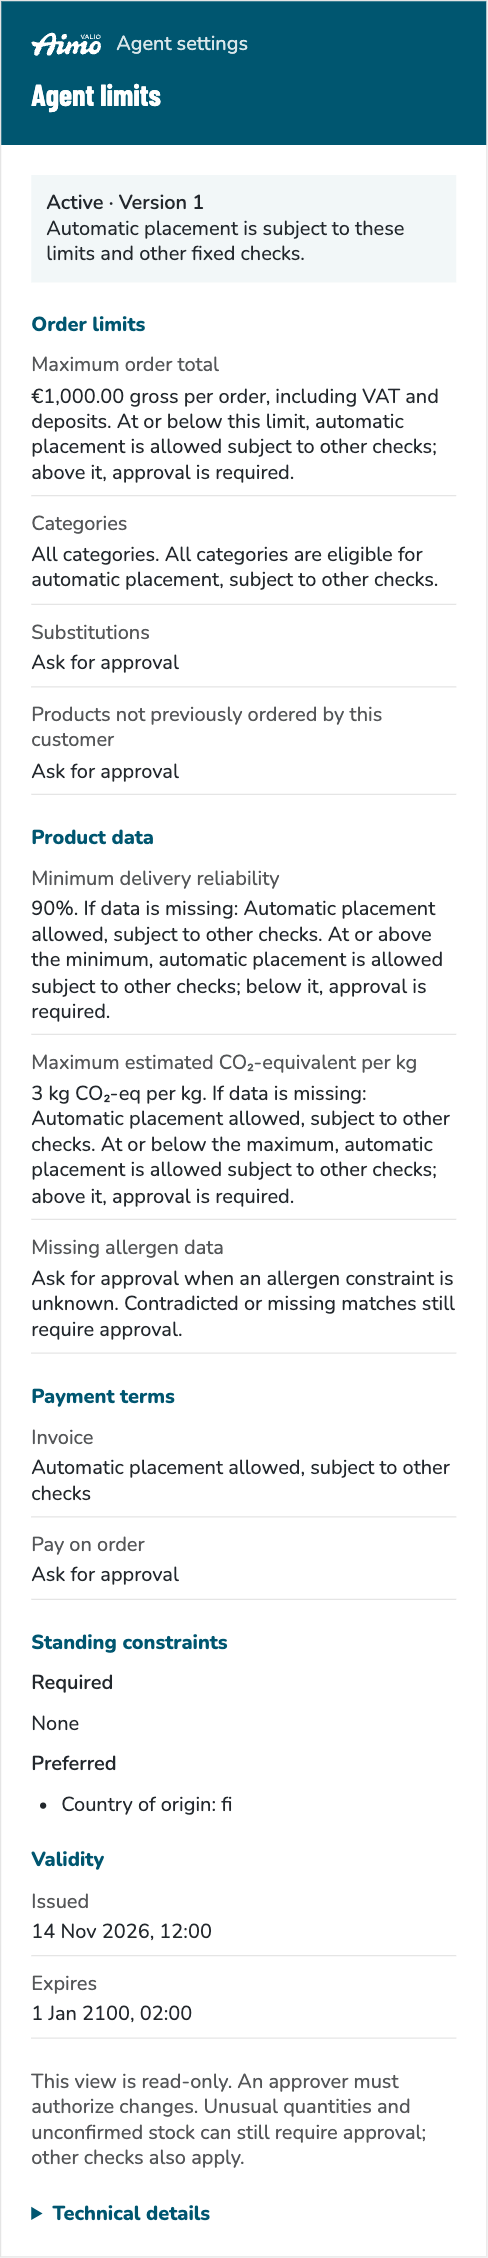
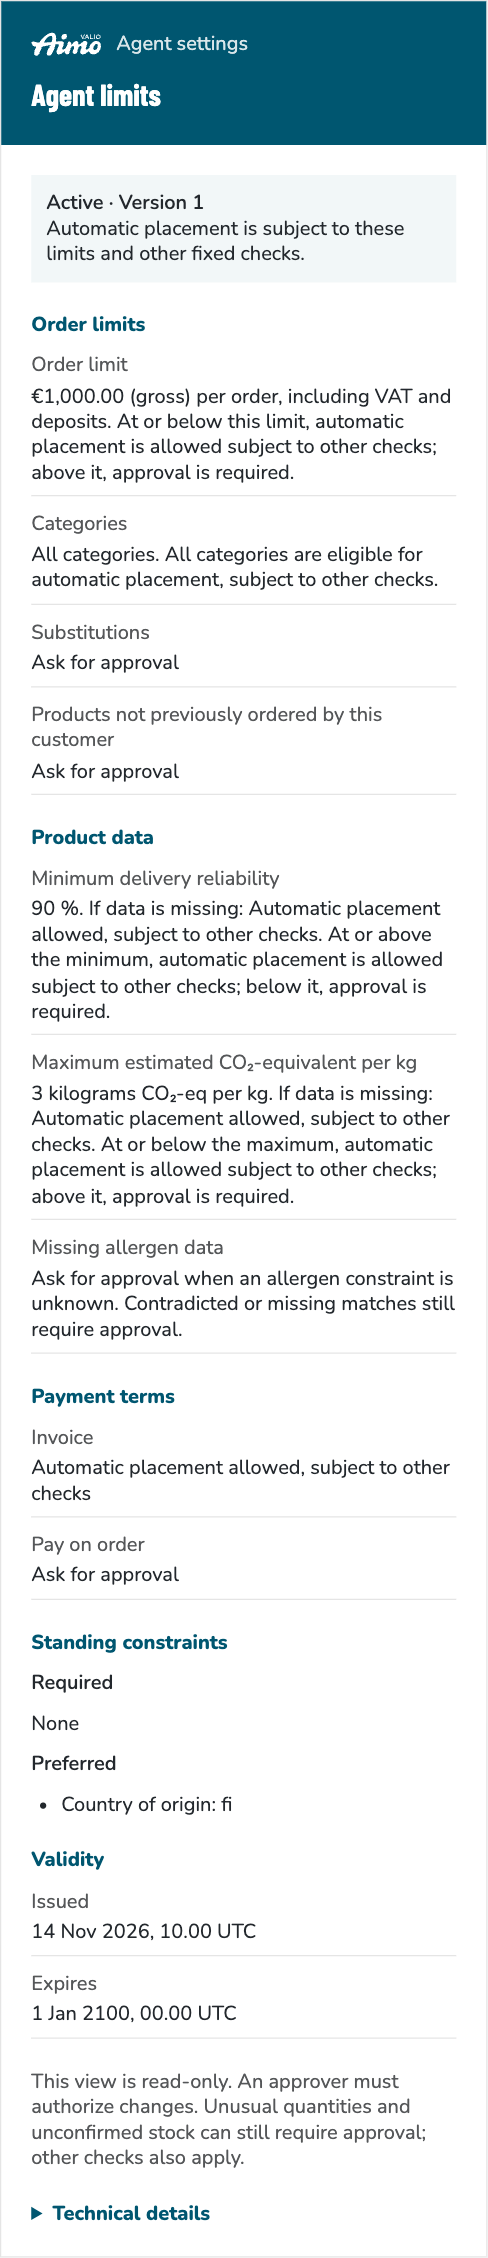
refactor(views): adopt shared mandate formats after #135 (#31)

diff --git a/contexts/views/src/views/mandate-settings/mandate-settings.ts b/contexts/views/src/views/mandate-settings/mandate-settings.ts
@@ -1,3 +1,4 @@
+import { formatMoney, formatQuantity, formatTimestamp, ORDER_TERMS } from "@app/ui/format";
 import { css, html } from "lit";
 import { unsafeSVG } from "lit/directives/unsafe-svg.js";
 import { plainPageUrl, type ViewData, type ViewEntryOf, viewEntry } from "../../shared/bridge.ts";
@@ -14,12 +15,6 @@ import {
   thresholdText,
 } from "./presentation.ts";
 
-const date = (seconds: number) =>
-  new Intl.DateTimeFormat("en-GB", { dateStyle: "medium", timeStyle: "short" }).format(
-    new Date(seconds * 1000),
-  );
-const number = (value: number) =>
-  new Intl.NumberFormat("en-GB", { maximumFractionDigits: 4 }).format(value);
 const row = (label: string, value: string) =>
   html`<div class="row">
     <dt>${label}</dt>
@@ -225,7 +220,7 @@ class MandateSettings extends ViewElement<ViewEntryOf<"mandate-settings">> {
         <section>
           <h3>Order limits</h3>
           <dl>
-            ${row("Maximum order total", `${new Intl.NumberFormat("en-GB", { style: "currency", currency: limits.maxOrderTotal.currency }).format(limits.maxOrderTotal.value)} gross per order, including VAT and deposits. At or below this limit, automatic placement is allowed subject to other checks; above it, approval is required.`)}
+            ${row(ORDER_TERMS.limit, `${formatMoney(limits.maxOrderTotal.value, limits.maxOrderTotal.currency, limits.maxOrderTotal.basis)} per order, including VAT and deposits. At or below this limit, automatic placement is allowed subject to other checks; above it, approval is required.`)}
             ${row("Categories", `${categoriesText(limits.categories)}. ${limits.categories === null ? "All categories are eligible for automatic placement, subject to other checks." : limits.categories.length === 0 ? "No categories are eligible for automatic placement; approval is required." : "Listed categories are eligible for automatic placement, subject to other checks; other categories require approval."}`)}
             ${row("Substitutions", substitutionText(limits.substitutions))}
             ${row("Products not previously ordered by this customer", policyText(limits.newProducts))}
@@ -234,8 +229,8 @@ class MandateSettings extends ViewElement<ViewEntryOf<"mandate-settings">> {
         <section>
           <h3>Product data</h3>
           <dl>
-            ${row("Minimum delivery reliability", `${thresholdText(limits.minDeliveryReliability, (value) => `${number(value * 100)}%`)} ${limits.minDeliveryReliability === null ? "" : "At or above the minimum, automatic placement is allowed subject to other checks; below it, approval is required."}`)}
-            ${row("Maximum estimated CO₂-equivalent per kg", `${thresholdText(limits.maxCo2PerKg, (value) => `${number(value)} kg CO₂-eq per kg`)} ${limits.maxCo2PerKg === null ? "" : "At or below the maximum, automatic placement is allowed subject to other checks; above it, approval is required."}`)}
+            ${row("Minimum delivery reliability", `${thresholdText(limits.minDeliveryReliability, (value) => new Intl.NumberFormat("en-FI", { style: "percent", maximumFractionDigits: 4 }).format(value))} ${limits.minDeliveryReliability === null ? "" : "At or above the minimum, automatic placement is allowed subject to other checks; below it, approval is required."}`)}
+            ${row("Maximum estimated CO₂-equivalent per kg", `${thresholdText(limits.maxCo2PerKg, (value) => `${formatQuantity({ value, unit: "KGM" })} CO₂-eq per kg`)} ${limits.maxCo2PerKg === null ? "" : "At or below the maximum, automatic placement is allowed subject to other checks; above it, approval is required."}`)}
             ${row("Missing allergen data", `${policyText(limits.allergenData.ifNoData)} when an allergen constraint is unknown. Contradicted or missing matches still require approval.`)}
           </dl>
         </section>
@@ -243,7 +238,7 @@ class MandateSettings extends ViewElement<ViewEntryOf<"mandate-settings">> {
           <h3>Payment terms</h3>
           <dl>
             ${row("Invoice", policyText(limits.paymentTerms.invoice))}
-            ${row("Pay on order", policyText(limits.paymentTerms.pay_on_order))}
+            ${row(ORDER_TERMS.paymentOnOrder, policyText(limits.paymentTerms.pay_on_order))}
           </dl>
         </section>
         <section>
@@ -267,7 +262,9 @@ class MandateSettings extends ViewElement<ViewEntryOf<"mandate-settings">> {
         </section>
         <section>
           <h3>Validity</h3>
-          <dl>${row("Issued", date(mandate.iat))}${row("Expires", date(mandate.exp))}</dl>
+          <dl>
+            ${row("Issued", formatTimestamp(new Date(mandate.iat * 1000).toISOString()))}${row("Expires", formatTimestamp(new Date(mandate.exp * 1000).toISOString()))}
+          </dl>
         </section>
         <p class="secondary">
           This view is read-only. An approver must authorize changes. Unusual quantities and
@@ -276,7 +273,7 @@ class MandateSettings extends ViewElement<ViewEntryOf<"mandate-settings">> {
         <details>
           <summary>Technical details</summary>
           <dl>
-            ${row("Mandate ID", mandate.mandateId)}${row("Customer", mandate.iss)}${row("Agent", mandate.agent)}${row("Signed by", mandate.signedBy)}${row("Registered", date(Date.parse(record.registeredAt) / 1000))}
+            ${row("Mandate ID", mandate.mandateId)}${row("Customer", mandate.iss)}${row("Agent", mandate.agent)}${row("Signed by", mandate.signedBy)}${row("Registered", formatTimestamp(record.registeredAt))}
           </dl>
         </details>
       </div>
